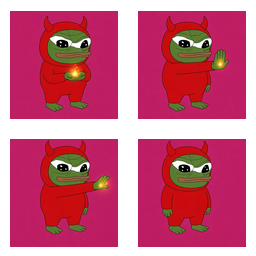
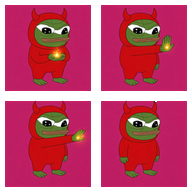
Fix dungeon sprites and NES-style walk
Strip leftover magenta halo. Movement is 4-way with 8-pixel snap like Zelda 1.

Changed region(s): [[0.0, 0.0, 1.0, 1.0]]

diff --git a/dungeon.html b/dungeon.html
@@ -93,6 +93,7 @@
 <script>
 (function () {
   const TILE = 48, COLS = 13, ROWS = 11, WORLD_W = COLS * TILE, WORLD_H = ROWS * TILE, STEP = 1 / 60;
+  const GRID = 8, STEP_PX = 2;
   const ASH_KEY = "epepe_dungeon_ash_v1";
   const MOVE = new Set(["KeyW","KeyA","KeyS","KeyD","ArrowUp","ArrowDown","ArrowLeft","ArrowRight","Space","KeyJ","KeyK","KeyF","Enter"]);
   const MODS = [
@@ -194,6 +195,8 @@
   let pendingMod = MODS[0];
   const keys = new Set();
   const stick = { x: 0, y: 0 };
+  let lastCardinal = "right";
+  let moveDir = "right";
   let aimX = 1, aimY = 0;
   let last = performance.now(), acc = 0, raf = 0, running = true;
   let pointerId = null;
@@ -364,19 +367,48 @@
     if (keys.has("KeyD") || keys.has("ArrowRight")) mx += 1;
     if (keys.has("KeyW") || keys.has("ArrowUp")) my -= 1;
     if (keys.has("KeyS") || keys.has("ArrowDown")) my += 1;
-    mx += stick.x; my += stick.y;
-    const len = Math.hypot(mx, my);
-    if (len > 1) { mx /= len; my /= len; }
-    const spd = 138;
-    player.vx = mx * spd * dt;
-    player.vy = my * spd * dt;
-    const nx = player.x + player.vx, ny = player.y + player.vy;
-    if (!blocked(nx, player.y, player.w, player.h)) player.x = nx;
-    if (!blocked(player.x, ny, player.w, player.h)) player.y = ny;
-    if (Math.abs(mx) > 0.25 || Math.abs(my) > 0.25) {
-      if (Math.abs(mx) > Math.abs(my)) player.facing = mx < 0 ? "left" : "right";
-      else player.facing = my < 0 ? "up" : "down";
-      aimX = mx; aimY = my;
+    if (stick.x < -0.4) mx -= 1;
+    if (stick.x > 0.4) mx += 1;
+    if (stick.y < -0.4) my -= 1;
+    if (stick.y > 0.4) my += 1;
+    const held = [];
+    if (mx < 0) held.push("left");
+    if (mx > 0) held.push("right");
+    if (my < 0) held.push("up");
+    if (my > 0) held.push("down");
+    if (Math.abs(stick.x) > 0.4 || Math.abs(stick.y) > 0.4) {
+      lastCardinal = Math.abs(stick.x) >= Math.abs(stick.y) ? (stick.x < 0 ? "left" : "right") : (stick.y < 0 ? "up" : "down");
+    }
+    let desired = null;
+    if (held.length) desired = held.includes(lastCardinal) ? lastCardinal : held[0];
+    player.vx = 0; player.vy = 0;
+    if (desired) {
+      if (desired !== moveDir) {
+        const horiz = moveDir === "left" || moveDir === "right";
+        const rem = horiz
+          ? ((Math.round(player.y) % GRID) + GRID) % GRID
+          : ((Math.round(player.x) % GRID) + GRID) % GRID;
+        if (rem === 0) moveDir = desired;
+      }
+      const dx = moveDir === "left" ? -1 : moveDir === "right" ? 1 : 0;
+      const dy = moveDir === "up" ? -1 : moveDir === "down" ? 1 : 0;
+      const nx = player.x + dx * STEP_PX;
+      const ny = player.y + dy * STEP_PX;
+      if (!blocked(nx, ny, player.w, player.h)) {
+        player.x = Math.round(nx); player.y = Math.round(ny);
+        player.vx = dx * STEP_PX; player.vy = dy * STEP_PX;
+        player.facing = moveDir; aimX = dx; aimY = dy;
+      } else if (desired !== moveDir) {
+        const rdx = desired === "left" ? -1 : desired === "right" ? 1 : 0;
+        const rdy = desired === "up" ? -1 : desired === "down" ? 1 : 0;
+        const rx = player.x + rdx * STEP_PX, ry = player.y + rdy * STEP_PX;
+        if (!blocked(rx, ry, player.w, player.h)) {
+          moveDir = desired;
+          player.x = Math.round(rx); player.y = Math.round(ry);
+          player.vx = rdx * STEP_PX; player.vy = rdy * STEP_PX;
+          player.facing = moveDir; aimX = rdx; aimY = rdy;
+        }
+      }
     }
     const side = doorSide();
     if (side) enter(side);
@@ -491,6 +523,7 @@
     const oy = (cssH - WORLD_H * scale) / 2 + (shake ? (Math.random() - 0.5) * shake : 0);
     ctx.fillStyle = "#070504";
     ctx.fillRect(0, 0, cssW, cssH);
+    ctx.imageSmoothingEnabled = true;
     ctx.save();
     ctx.translate(ox, oy);
     ctx.scale(scale, scale);
@@ -567,10 +600,10 @@
       img = sheets.walk;
       cols = 4; rows = 4;
       const row = player.facing === "down" ? 0 : player.facing === "left" ? 1 : player.facing === "right" ? 2 : 3;
-      fi = row * 4 + (Math.floor(frame / 6) % 4);
+      fi = row * 4 + (Math.floor(frame / 10) % 2) * 2;
     }
     if (invuln % 6 < 3 || invuln === 0) {
-      sheetFrame(img, cols, rows, fi, player.x - 6, player.y - 10, 44, 50, flip && img !== sheets.walk);
+      sheetFrame(img, cols, rows, fi, Math.round(player.x) - 6, Math.round(player.y) - 10, 40, 44, flip && img !== sheets.walk);
     }
 
     sparks.forEach((s) => {
@@ -599,7 +632,13 @@
   function onKey(e, down) {
     if (MOVE.has(e.code)) e.preventDefault();
     if (e.repeat && (e.code === "KeyJ" || e.code === "KeyK" || e.code === "Space" || e.code === "Enter")) return;
-    if (down) keys.add(e.code); else keys.delete(e.code);
+    if (down) {
+      keys.add(e.code);
+      if (e.code === "KeyA" || e.code === "ArrowLeft") lastCardinal = "left";
+      if (e.code === "KeyD" || e.code === "ArrowRight") lastCardinal = "right";
+      if (e.code === "KeyW" || e.code === "ArrowUp") lastCardinal = "up";
+      if (e.code === "KeyS" || e.code === "ArrowDown") lastCardinal = "down";
+    } else keys.delete(e.code);
     if (down && (e.code === "KeyJ" || e.code === "Space")) poke();
     if (down && (e.code === "KeyK" || e.code === "KeyF")) shoot();
     if (down && e.code === "Enter" && phase !== "play") startPlay();
